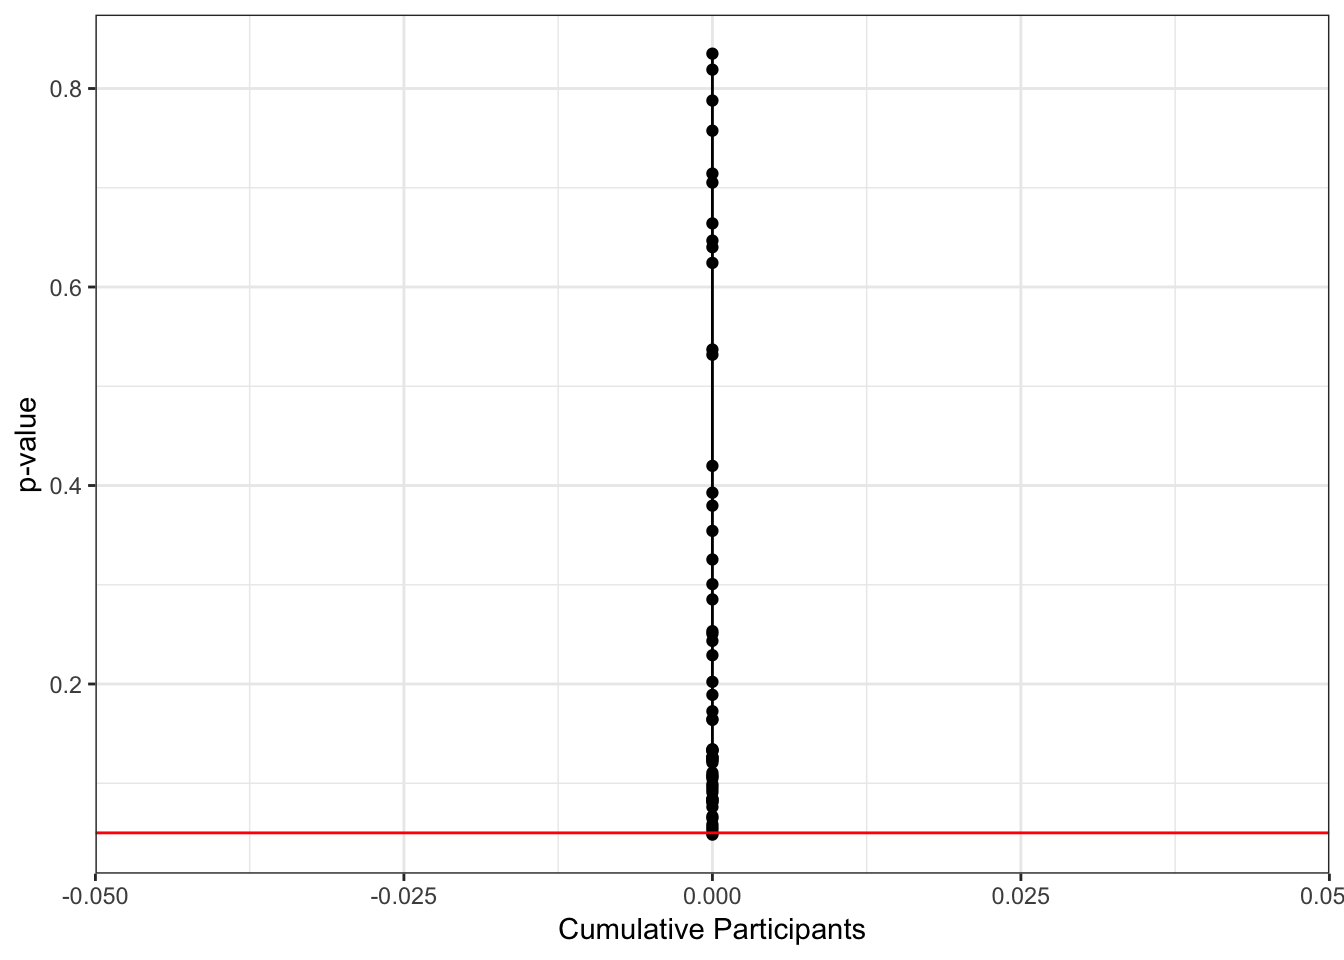
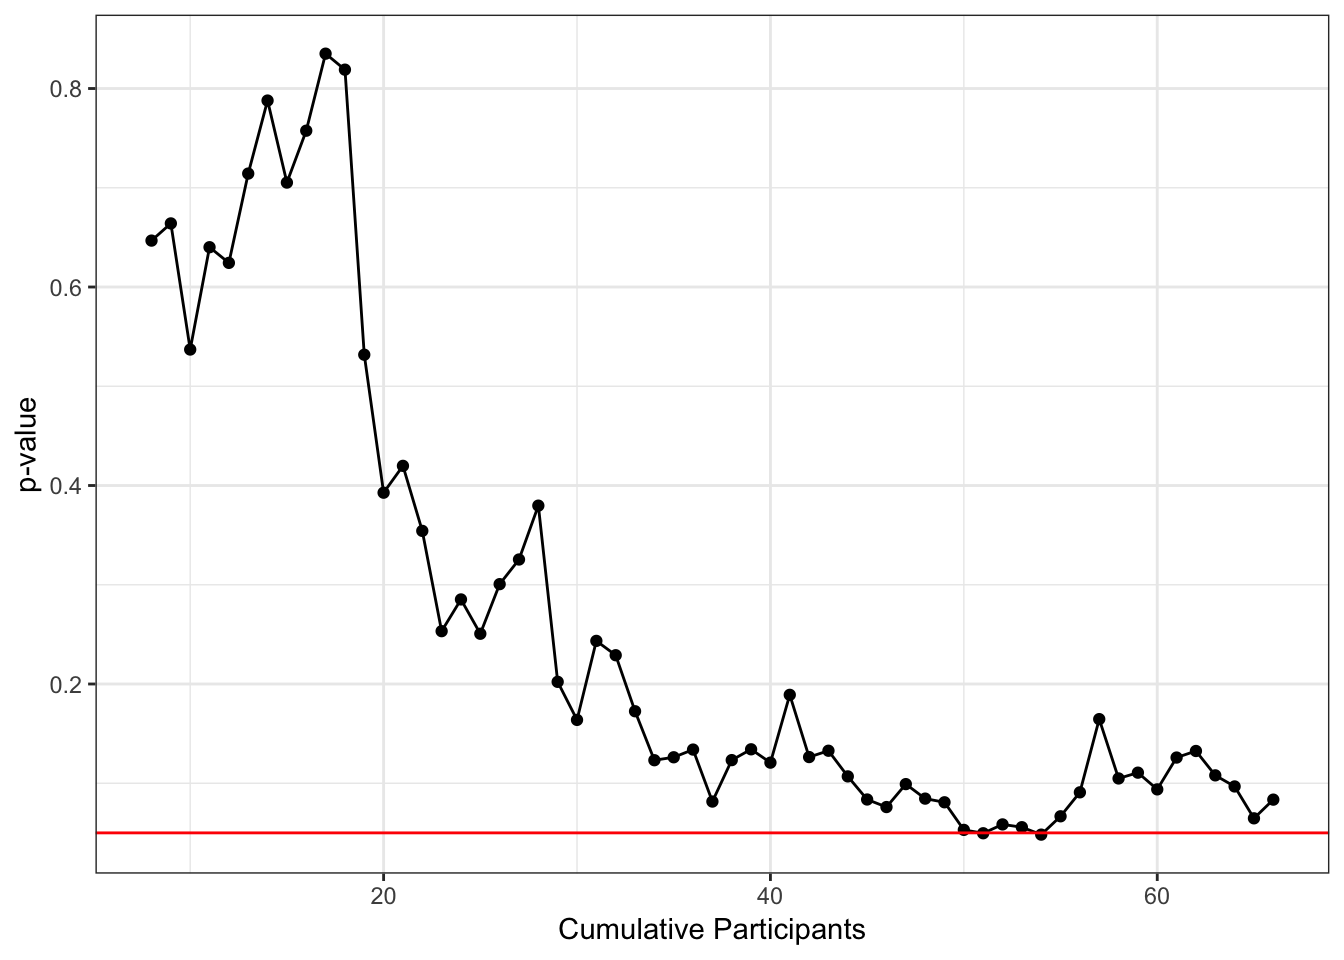
fix content errors and font size

diff --git a/content/post/SPL_Reflection_V1.html b/content/post/SPL_Reflection_V1.html
@@ -18,8 +18,8 @@ data &lt;- read_csv(&quot;data_clean.csv&quot;) %&gt;%
 <p>To answer the both questions, I wrote a function in R that runs a regression model on progressively larger and larger datasets. It begins with participants 1 through 8, then adds participants one at a time until the full dataset participants is included. The function saves the p-value and the effect size for each loop. The general form of the function is below:</p>
 <pre class="r"><code>&#39;model.info.extractor(dataset, filter.low, filter.high, model.formula)&#39;</code></pre>
 <p>The first argument of the function is the dataset we want to extract p-values and effect sizes from. My data is made up of reaction times, and many of them are unrealistically short or long. So, I added arguments to the function that allow me to specify how I want to filter the reaction times. I also added an argument to specify the formula of the model I would like to test. The function is a little long and unwieldy so I’ve hidden it from view here, but the body of function is viewable at the link at the bottom of this post.</p>
-<div id="p-values" class="section level2">
-<h2>P-values</h2>
+<div id="just-how-variable-are-p-values" class="section level2">
+<h2>Just how variable are p-values?</h2>
 <pre class="r"><code>Change &lt;- model.info.extractor(data, 150, 2000,
                                       logRT ~ Condition + logTrial + Duration
                                       + (1 + Condition + logTrial|SubjectID)
@@ -27,14 +27,14 @@ data &lt;- read_csv(&quot;data_clean.csv&quot;) %&gt;%
 
 # View the first few rows to make sure the function worked
 head(Change, n = 5)</code></pre>
-<pre><code>##   sample     p.val     effect Subs
-## 1      0 0.6467623 0.02395655    8
-## 2      0 0.6640786 0.02244937    9
-## 3      0 0.5370107 0.02946573   10
-## 4      0 0.6401067 0.02109087   11
-## 5      0 0.6243191 0.02064129   12</code></pre>
+<pre><code>##   Subs     p.val     effect
+## 1    8 0.6467623 0.02395655
+## 2    9 0.6640786 0.02244937
+## 3   10 0.5370107 0.02946573
+## 4   11 0.6401067 0.02109087
+## 5   12 0.6243191 0.02064129</code></pre>
 <p>After running the function with the arguments above, I used ggplot to graph the p-values in order to answer my first question.</p>
-<pre class="r"><code>ggplot(Change, aes(x = sample, y = p.val)) +
+<pre class="r"><code>ggplot(Change, aes(x = Subs, y = p.val)) +
   geom_point() +
   geom_line() +
   geom_hline(yintercept = .05, color = &quot;red&quot;) +
@@ -42,8 +42,11 @@ head(Change, n = 5)</code></pre>
   theme_bw()</code></pre>
 <p><img src="/post/SPL_Reflection_V1_files/figure-html/unnamed-chunk-5-1.png" width="672" /></p>
 <p>For the first 30 or so participants, the p-value fluctates a lot with each new participant but generally seems to decrease. After that, it looks like there is less fluctuation and no certain trend in one direction or another. Between participants 50 through 55, the p-value dips below that .05 threshold needed for sweet, sweet scientific glory. Luckily, and yet also frustratingly, my advisor and I had set a target sample size of 70 participants. If I had analyzed my data when I added these participants to the sample, I would not have been tempted to stop data collection there. But, it’s easy to imagine how stopping data collection as soon as the p-value is significant might become more tempting if I was gathering data from a difficult-to-recruit population or felt under more pressure to publish. For me, this illustrates the value of registering study plans before starting data collection to prevent p-hacking.</p>
-<p>##Effect Size Given the variablity of p-values as the sample size grows, let’s see if the size of the effect is similarly variable over the course of a study. As mentioned earlier, it is common practice to use the effect from a small number of subjects early on in data collection to estimate a target sample size using a power analysis. But if effect sizes are really variable, a power analysis might not yield a reliable target sample size. If the effect size is an underestimate of the true effect, a power analysis would lead you to collect a larger sample than necessary. While this is not always bad, it can cause practical problems if data collection for a project is costly or time-intensive. Alternatively, if the effect size is an overestimate of the true effect, a power analysis would lead to an underestimate of sample size required to be able to reliably detect an effect. This could lead researchers not to detect effects when they actualy do exist.</p>
-<pre class="r"><code>ggplot(Change, aes(x = sample, y = effect)) +
+</div>
+<div id="is-the-effect-size-from-a-small-pilot-sample-a-good-estimate-for-the-true-effect-size" class="section level2">
+<h2>Is the effect size from a small pilot sample a good estimate for the true effect size?</h2>
+<p>Given the variablity of p-values as the sample size grows, let’s see if the size of the effect is similarly variable over the course of a study. As mentioned earlier, it is common practice to use the effect from a small number of subjects early on in data collection to estimate a target sample size using a power analysis. But if effect sizes are really variable, a power analysis might not yield a reliable target sample size. If the effect size is an underestimate of the true effect, a power analysis would lead you to collect a larger sample than necessary. While this is not always bad, it can cause practical problems if data collection for a project is costly or time-intensive. Alternatively, if the effect size is an overestimate of the true effect, a power analysis would lead to an underestimate of sample size required to be able to reliably detect an effect. This could lead researchers not to detect effects when they actualy do exist.</p>
+<pre class="r"><code>ggplot(Change, aes(x = Subs, y = effect)) +
   geom_point() +
   geom_line() +
   geom_hline(yintercept = Change$effect[1], color = &quot;blue&quot;) +
@@ -89,5 +92,8 @@ power %&gt;%
   theme_bw()</code></pre>
 <p><img src="/post/SPL_Reflection_V1_files/figure-html/unnamed-chunk-9-1.png" width="672" /></p>
 <p>The power analysis with the large effect size estimates approximately 25% power using the large effect size of 0.0239566, and approximately 8% power using the small effect size of 0.010366. First off, both effects are under-powered at 80 subjects. Even given that the large effect is the better estimate, we still only would detect a significant effect of this size 25% of the time with a sample of 80. Second, the effect size that is used seems to be consequential for power calculations. Using the small effect size would have lead me to collect data from far more participants than using the slightly larger effect size. It is concerning that I could have just easily picked one or the other for my effect estimate. It seems like a less noisy way to conduct power analyses would be to use past literature as a guide for effect size, although this is not always possible if a given line of research is new.</p>
-<p>##tl;dr P-values in my dataset were quite variable. Without a strong a priori sample size, this could have lead me to stop data collection as soon as I saw a significant effect. Effect sizes were quite variable too. While the method of using a small sample to estimate the true effect size might be necessary in some situations, it does not seem like the best way to estimate the necessary sample size.</p>
+</div>
+<div id="tldr" class="section level2">
+<h2>tl;dr</h2>
+<p>P-values in my dataset were quite variable. Without a strong a priori sample size, this could have lead me to stop data collection as soon as I saw a significant effect. Effect sizes were quite variable too. While the method of using a small pilot sample to estimate the true effect size might be necessary in some situations, it does not seem like the best way to estimate the sample size to achieve adequate statistical power.</p>
 </div>
